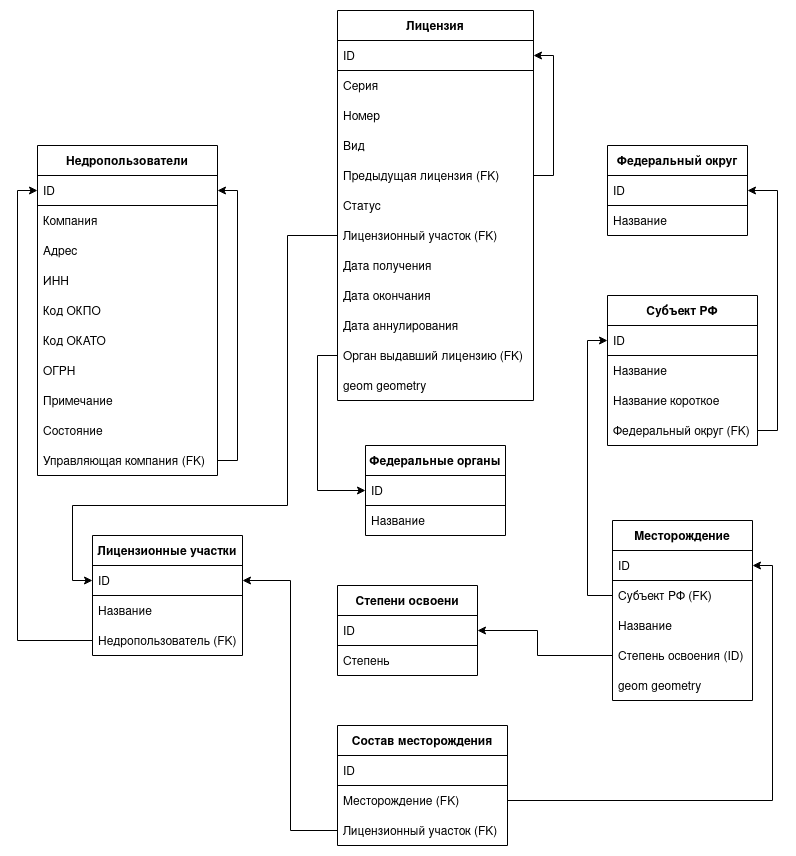
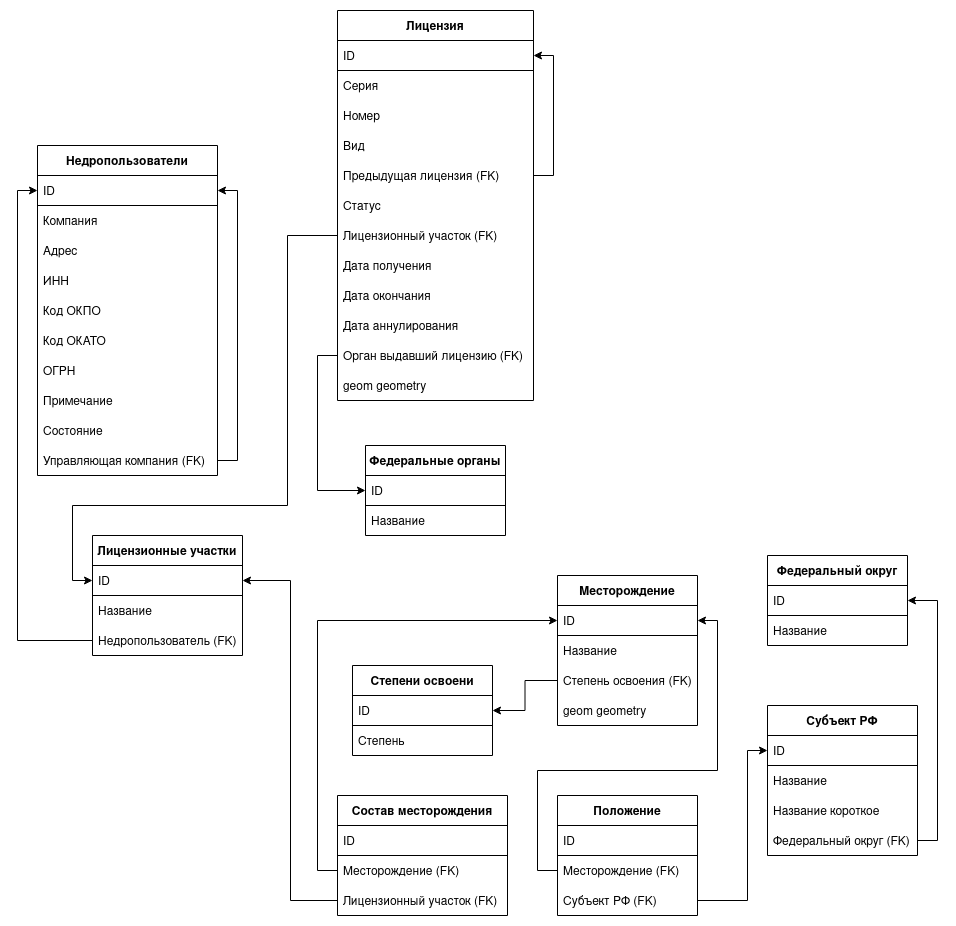
See description
A mistake in migrations and database scheme has been fixed. The mistake was that the field can be located in several subjects, and previous scheme did not reflect this.

diff --git a/database/migrations/2022_06_01_142443_field_position.php b/database/migrations/2022_06_01_142443_field_position.php
@@ -1,0 +1,32 @@
+<?php
+
+use Illuminate\Database\Migrations\Migration;
+use Illuminate\Database\Schema\Blueprint;
+use Illuminate\Support\Facades\Schema;
+
+return new class extends Migration
+{
+    /**
+     * Run the migrations.
+     *
+     * @return void
+     */
+    public function up()
+    {
+		Schema::create('field_position', function(Blueprint $table) {
+			$table->id();
+			$table->foreignId('field')->constrained('fields');
+			$table->foreignId('subject')->constrained('rf_subjects');	
+		});
+    }
+
+    /**
+     * Reverse the migrations.
+     *
+     * @return void
+     */
+    public function down()
+    {
+        //
+    }
+};
